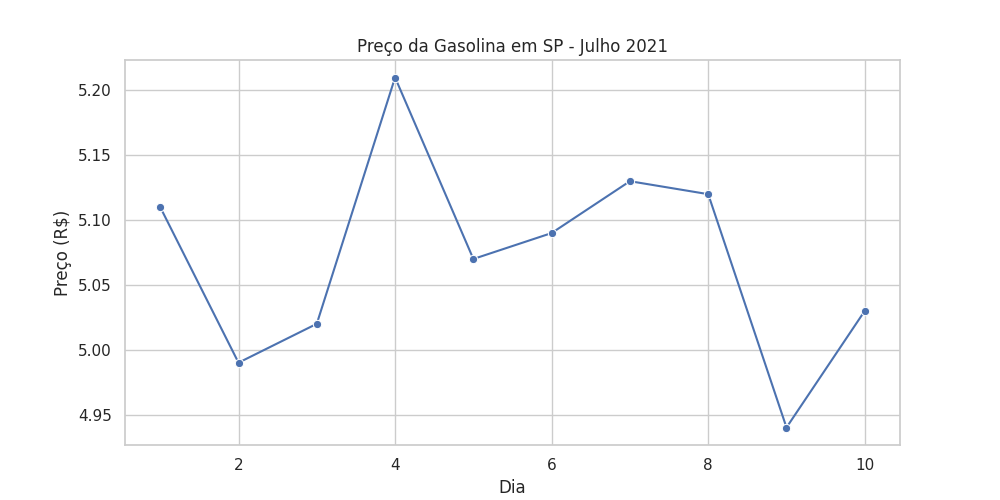
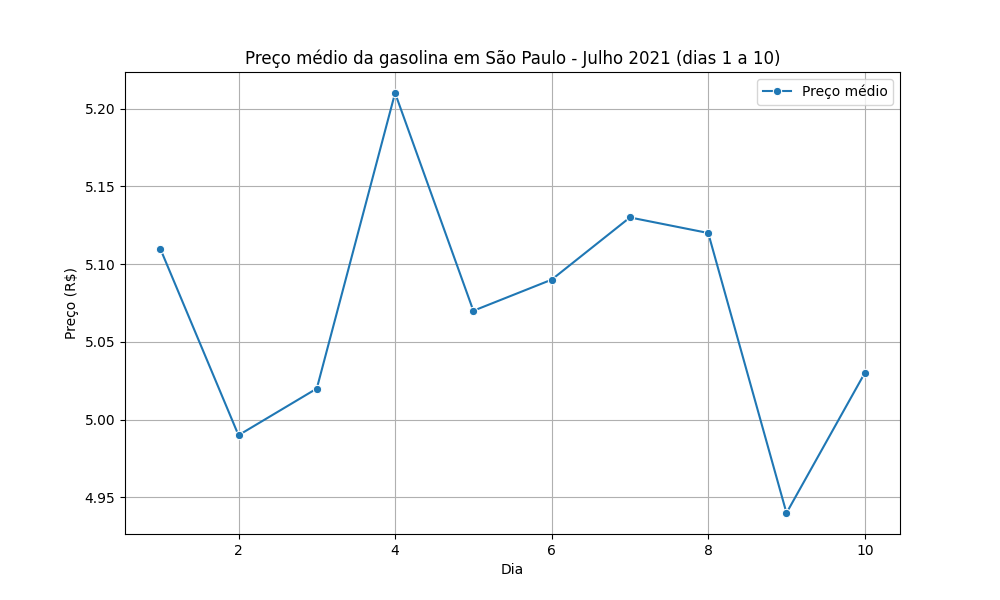
Adiciona análise e gráfico do preço da gasolina (branch develop)

diff --git a/gasolina.py b/gasolina.py
@@ -2,16 +2,13 @@ import pandas as pd
 import seaborn as sns
 import matplotlib.pyplot as plt
 
-# Carregar os dados
 df = pd.read_csv("gasolina.csv")
 
-# Criar gráfico
-sns.set(style="whitegrid")
-plt.figure(figsize=(10, 5))
-sns.lineplot(data=df, x="dia", y="venda", marker="o")
-plt.title("Preço da Gasolina em SP - Julho 2021")
+plt.figure(figsize=(10,6))
+sns.lineplot(data=df, x="dia", y="venda", marker='o', label="Preço médio")
+plt.title("Preço médio da gasolina em São Paulo - Julho 2021 (dias 1 a 10)")
 plt.xlabel("Dia")
 plt.ylabel("Preço (R$)")
+plt.grid(True)
+plt.legend()
 plt.savefig("gasolina.png")
-plt.show()
-#tudo certo
